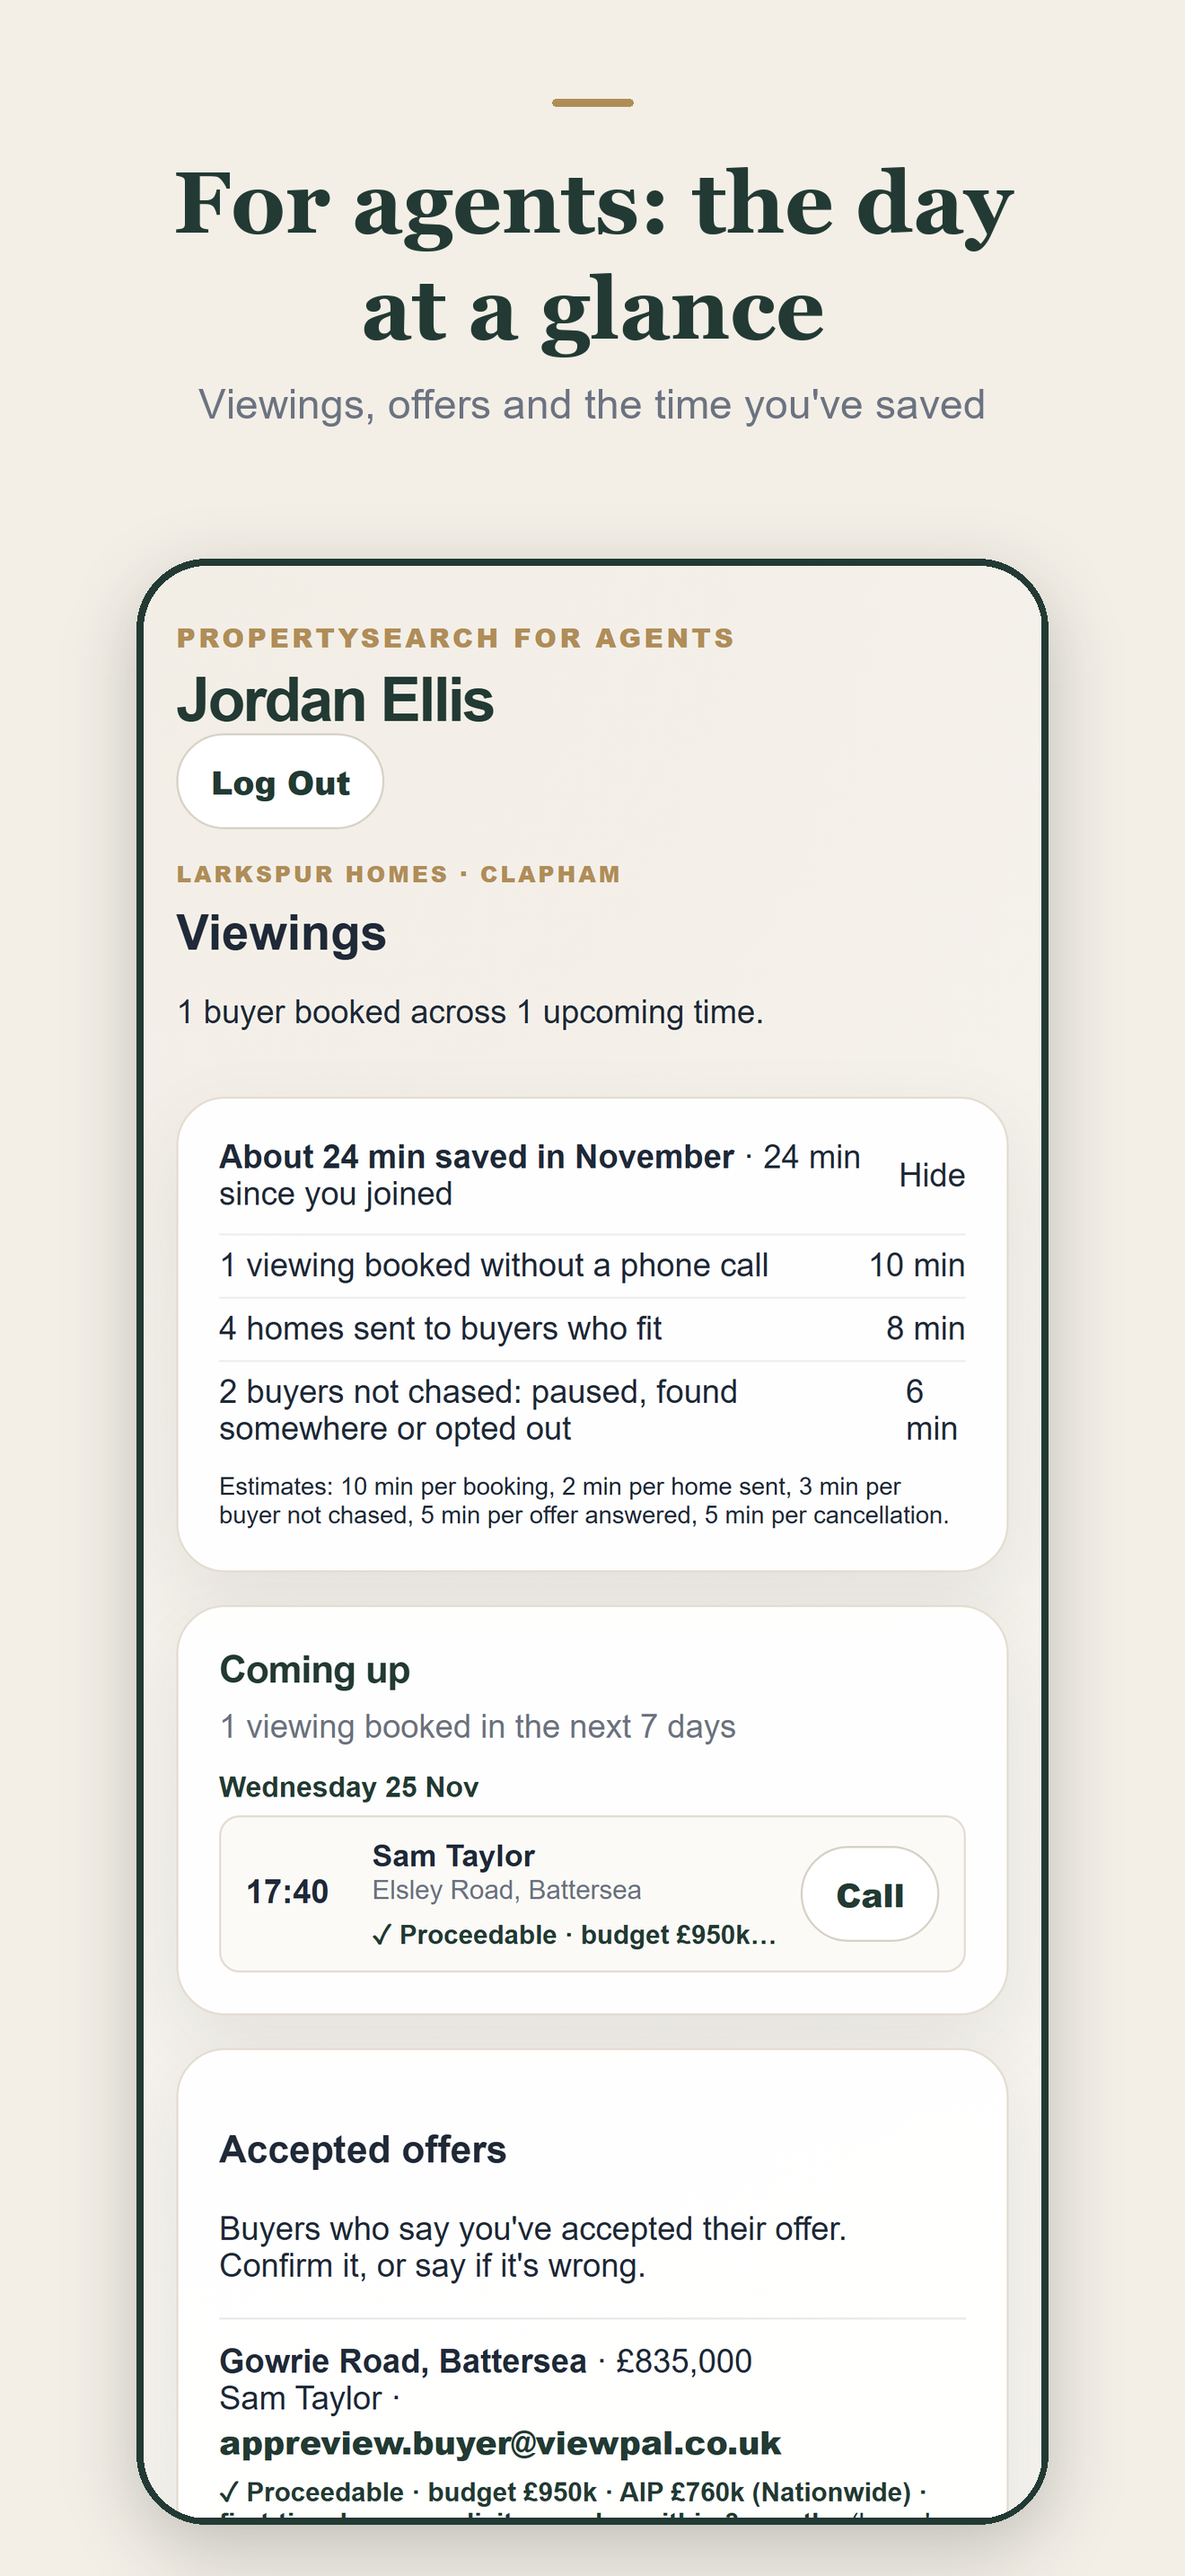
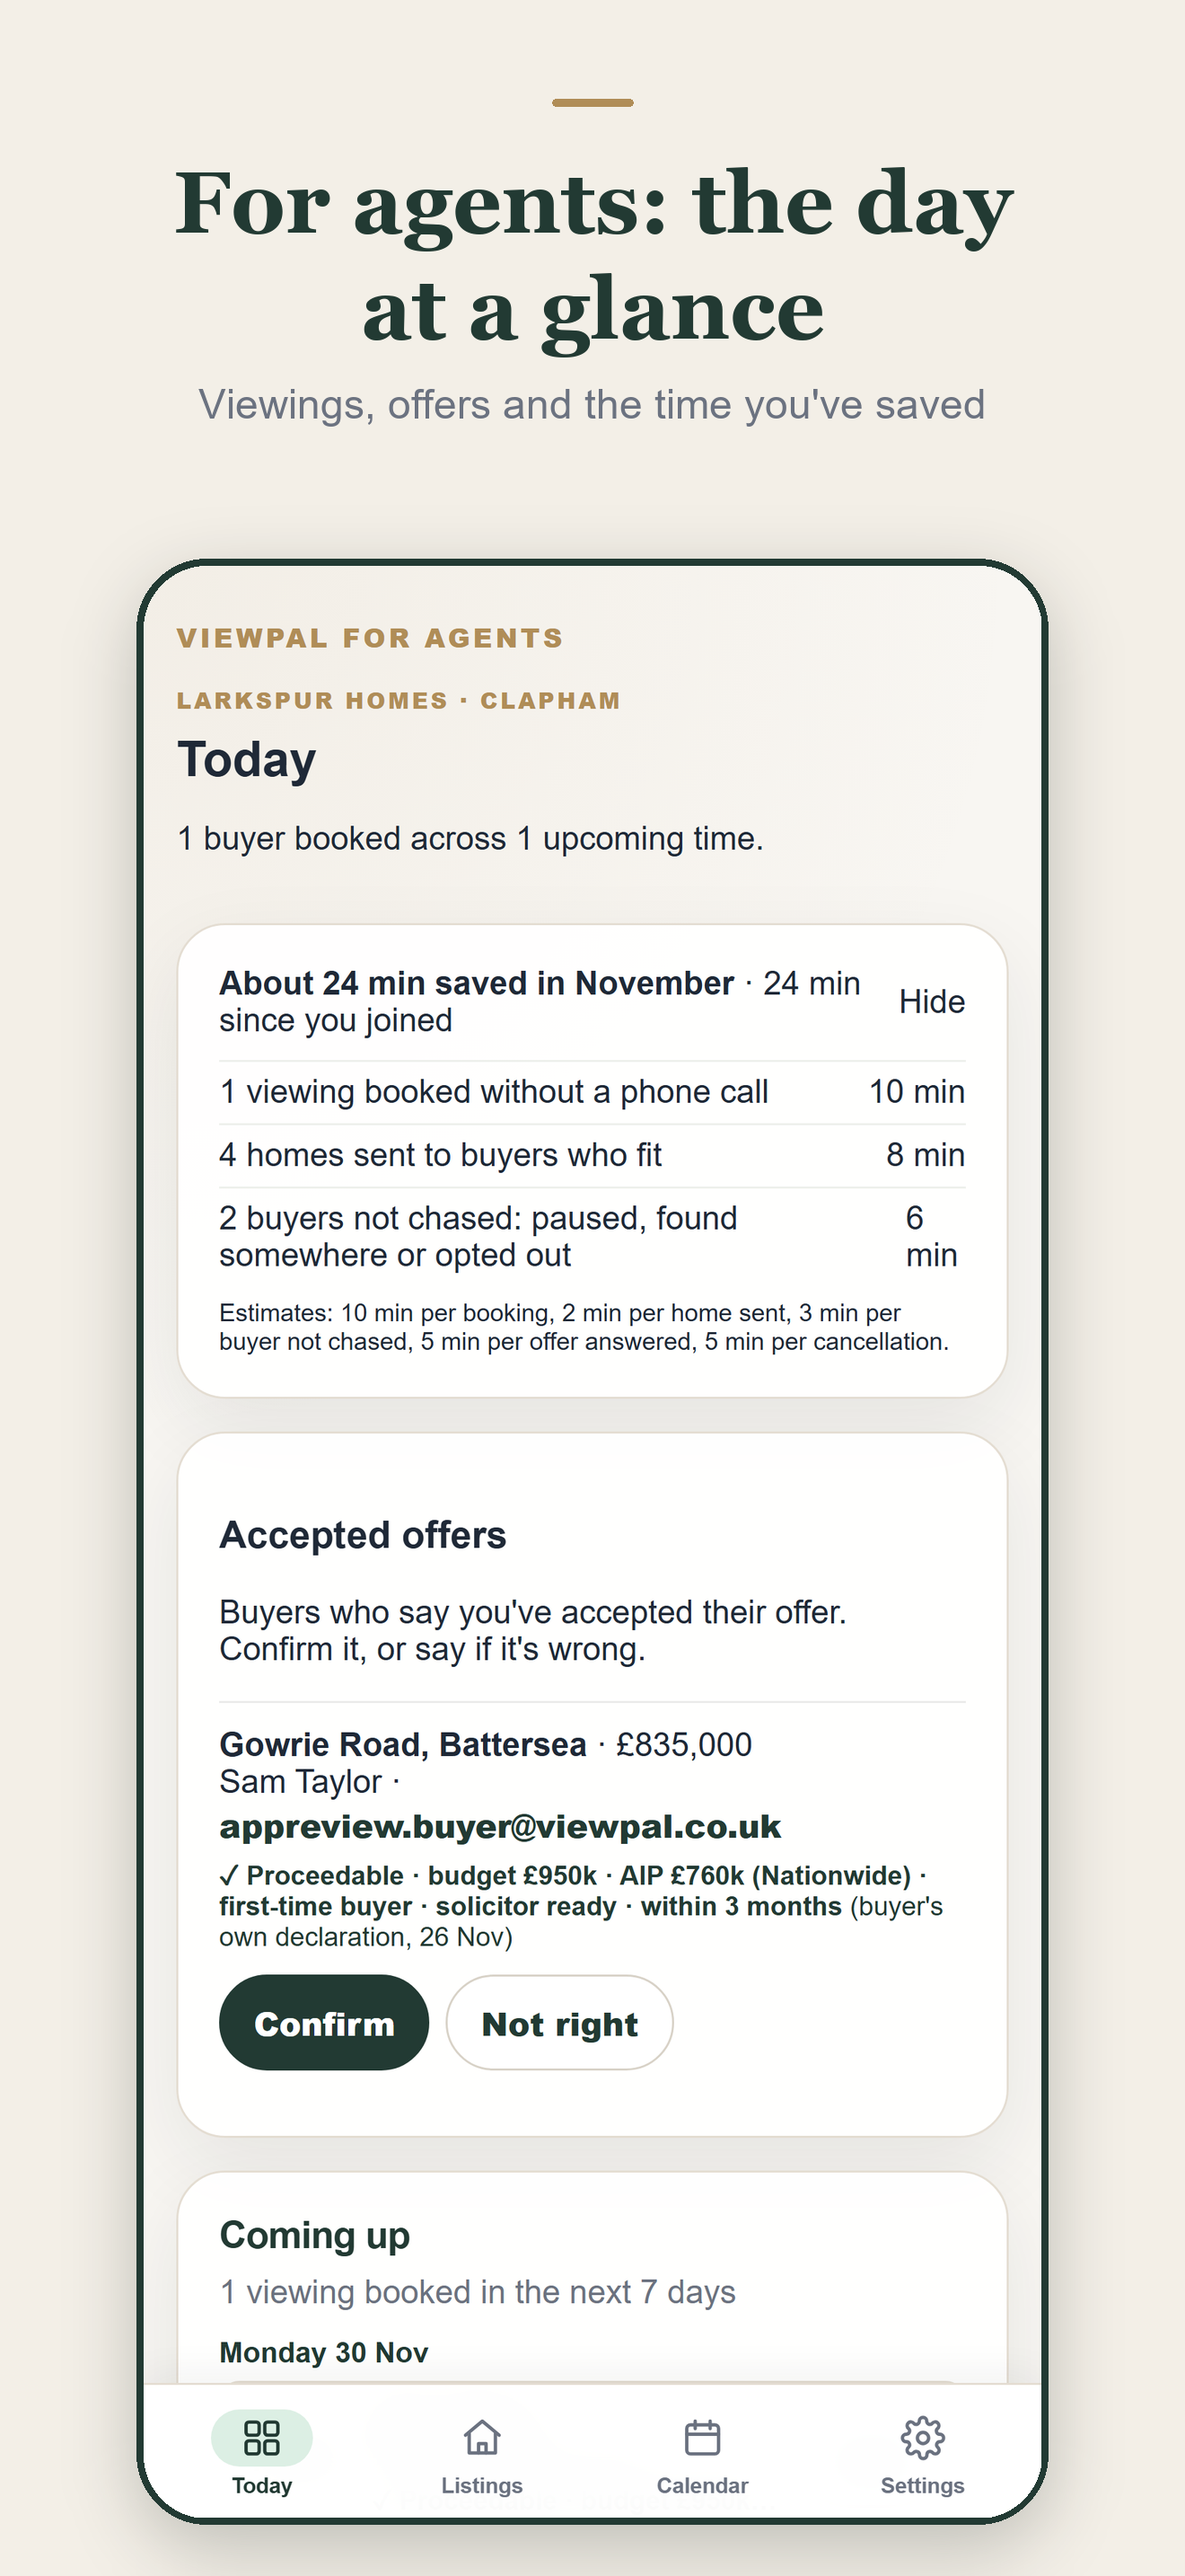
App Store: ViewPal screenshots, fuller privacy labels, open items checked
Screenshots retaken with the ViewPal name (the agent listing shot now
opens the Listings tab). Privacy labels add Photos or Videos (viewing
photos) and the newer user content. Status doc: Google Routes errors
have stopped and nightly backups succeed with both secrets set.

diff --git a/docs/APP_STORE_LISTING.md b/docs/APP_STORE_LISTING.md
@@ -144,16 +144,25 @@ Functionality** only.
 
 | Category | Data type | What it is |
 |---|---|---|
-| Contact Info | Name | Buyer and agent names |
+| Contact Info | Name | Buyer and agent names (agents also give their agency and branch) |
 | Contact Info | Email Address | Logins, booking and alert emails |
-| Contact Info | Phone Number | Agents' phone; buyer phone on viewing bookings |
-| Financial Info | Other Financial Info | Buying position: budget, deposit, mortgage details; optional proof document (mortgage agreement or proof of funds); accepted offer amounts |
-| User Content | Other User Content | Saved properties, notes, ratings, searches (incl. drawn areas), commute addresses |
+| Contact Info | Phone Number | Agents' phone; buyer phone on viewing bookings; the number an agent gives for their setup call |
+| Financial Info | Other Financial Info | Buying position: budget, deposit, mortgage details; optional proof document (mortgage agreement or proof of funds); accepted offer amounts; the buyer's cost estimates (stamp duty, fees) |
+| User Content | Photos or Videos | Photos a buyer adds to a viewing (from the camera or photo library), and a photo of a proof document if they upload one as an image |
+| User Content | Other User Content | Saved properties, notes, ratings, must-haves, viewing feedback, searches (incl. drawn areas), commute addresses; agents' listings and the note on a setup call |
 | Identifiers | User ID | Account ID |
 
 Not collected: precise or coarse location (we never read the phone's
-location; addresses are typed in), contacts, photos, browsing history,
-purchases, health, usage data, diagnostics, advertising data.
+location; addresses are typed in and areas drawn on a map), contacts,
+browsing history, purchases, health, search history, usage data,
+diagnostics, advertising data. There are no analytics or crash-reporting
+tools in the app (checked 26 Nov 2026). Push notification tokens are
+stored to send notifications; Apple doesn't treat these as a "Device ID",
+so they aren't declared.
+
+Check this list again whenever a feature adds a new kind of data (for
+example, payment details once agent billing goes live: Stripe takes card
+details on its own page, but billing names and addresses would count).
 
 ## Export compliance
 
@@ -164,7 +173,7 @@ on each build.
 ## Screenshots (App Store only, not TestFlight)
 
 Ready to upload: `docs/app-store/screenshots/` (ten iPhone 6.9" images,
-1320 × 2868, in upload order; retaken 23 Nov 2026). Drag them into App Store Connect → your app
+1320 × 2868, in upload order; retaken 26 Nov 2026 with the ViewPal name). Drag them into App Store Connect → your app
 → the version → iPhone 6.9" Display. Apple scales them for smaller iPhones.
 
 They show the demo accounts. Photos are from Unsplash (free for commercial
@@ -182,3 +191,10 @@ python scripts/app-store/compose.py ../docs/app-store/raw ../docs/app-store/scre
 ```
 
 Captions are in `compose.py`.
+
+If `shoot.mjs` fails with `Error: UNKNOWN: unknown error, read`, OneDrive is
+getting in the way of Node reading files in the synced folder. Copy
+`shoot.mjs` to a folder outside OneDrive, run `npm install
+puppeteer-core@23.11.1` there, and run it from `frontend` as
+`node <that folder>\shoot.mjs ../docs/app-store/raw`. Set `SHOOT_BASE` if
+the dev server isn't on port 5173.

diff --git a/docs/PROJECT_STATUS.md b/docs/PROJECT_STATUS.md
@@ -96,12 +96,13 @@ AI triage scoring; the agent call/viewing booking page (`/book/<slug>`); the sec
 
 ## Open items and things to check
 - **Migrations applied?** Confirm 005–023 are applied in Supabase. The commits say 008 was; the rest weren't recorded.
-- **Google Routes:** commutes were failing on a 100-a-day quota and on key permissions (403). Check the Routes API is enabled for the key, there's no website-only restriction, and the quota is raised.
+- **Google Routes:** commutes were failing on a 100-a-day quota (429) and on key permissions (403). Checked 26 Nov: the 403s have stopped and new homes get commutes again (latest one today succeeded). Still worth a look in Google Cloud → APIs & Services → Routes API → Quotas: confirm the daily ComputeRoutes limit is comfortably above 100, and set a billing budget alert so a bug can't run up a bill.
 - **Vercel:** the live project `property-search-4jcc` needs Root Directory `frontend`, the default build commands, and its environment variables set for Preview as well. The duplicate `property-search` project should be disconnected.
 - **Secrets used by the newer features:**
   - APNs (`APNS_KEY`, `APNS_KEY_ID`, `APNS_TEAM_ID`): **set** in both GitHub and Vercel. The key is `X74MYGJ3ZQ`, made 19 Nov, and the `.p8` is in OneDrive under Personal Drive → Property Search Keys.
   - TestFlight: the App Store Connect API key secrets are **set** (22 Nov), and the GitHub workflow is the normal way to build.
-  - Still to check: backups (`SUPABASE_DB_URL`, `BACKUP_PASSPHRASE`), and optionally `AGENT_SIGNUP_CODE`
+  - Backups: **set and working**. The nightly backup has succeeded every night from 21 to 26 Nov (its first step fails the run if either secret is missing or malformed). Make sure `BACKUP_PASSPHRASE` is also in your password manager, and try one restore (docs/BACKUPS.md) before launch.
+  - Optional: `AGENT_SIGNUP_CODE`.
 - **iPhone app:** it runs on Will's iPhone, the first TestFlight upload (from a borrowed Mac) went through on 22 Nov, and the share extension is still to be tested. Still to do: an external TestFlight group for the agent demo, and the App Store submission.
 - **Sign-ups:** these are now deliberately open (households plus email confirmation), which replaces the earlier advice to switch them off.
 - **Repo location:** the repo lives in a OneDrive/SharePoint-synced folder. Syncing `.git` this way can corrupt it, so move it out and use GitHub to move work between computers.
